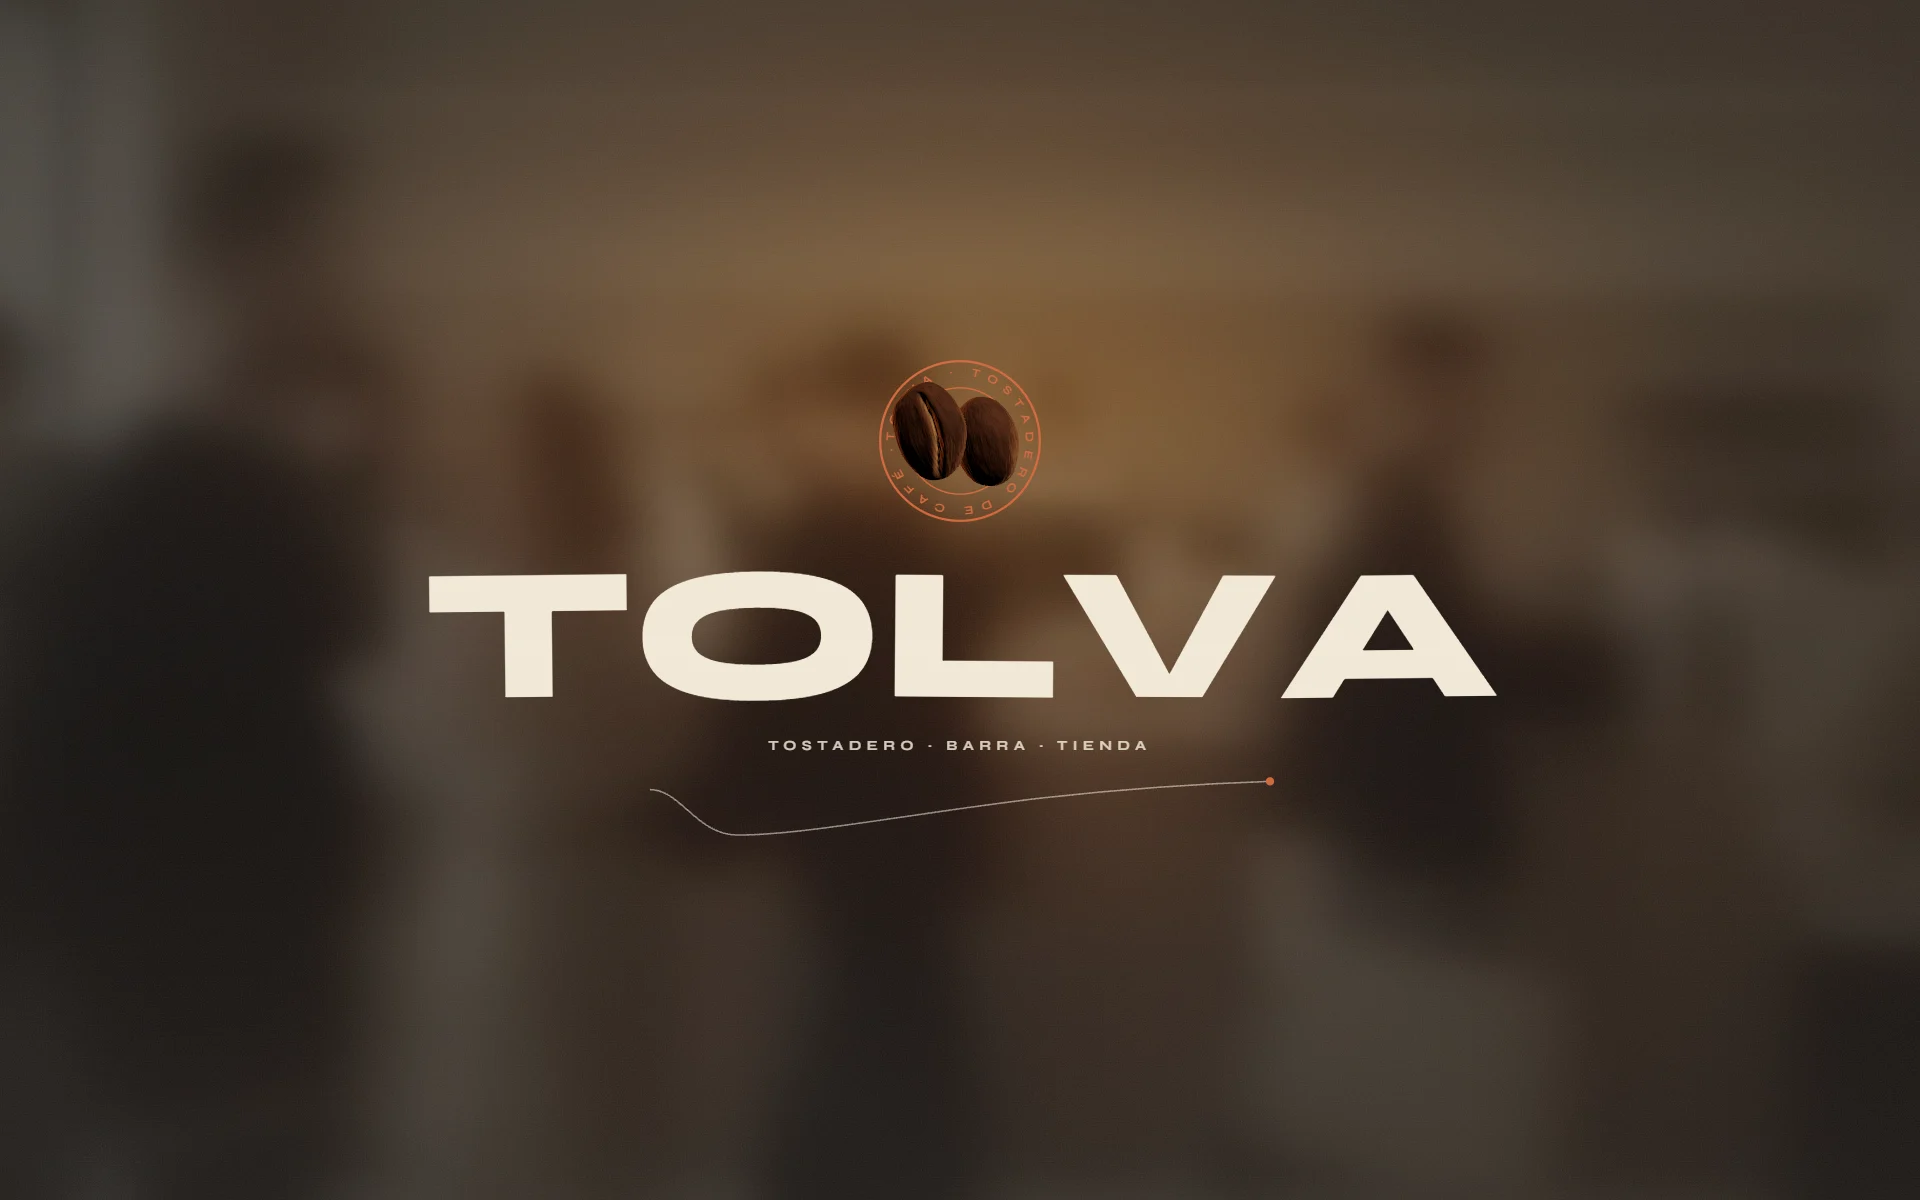
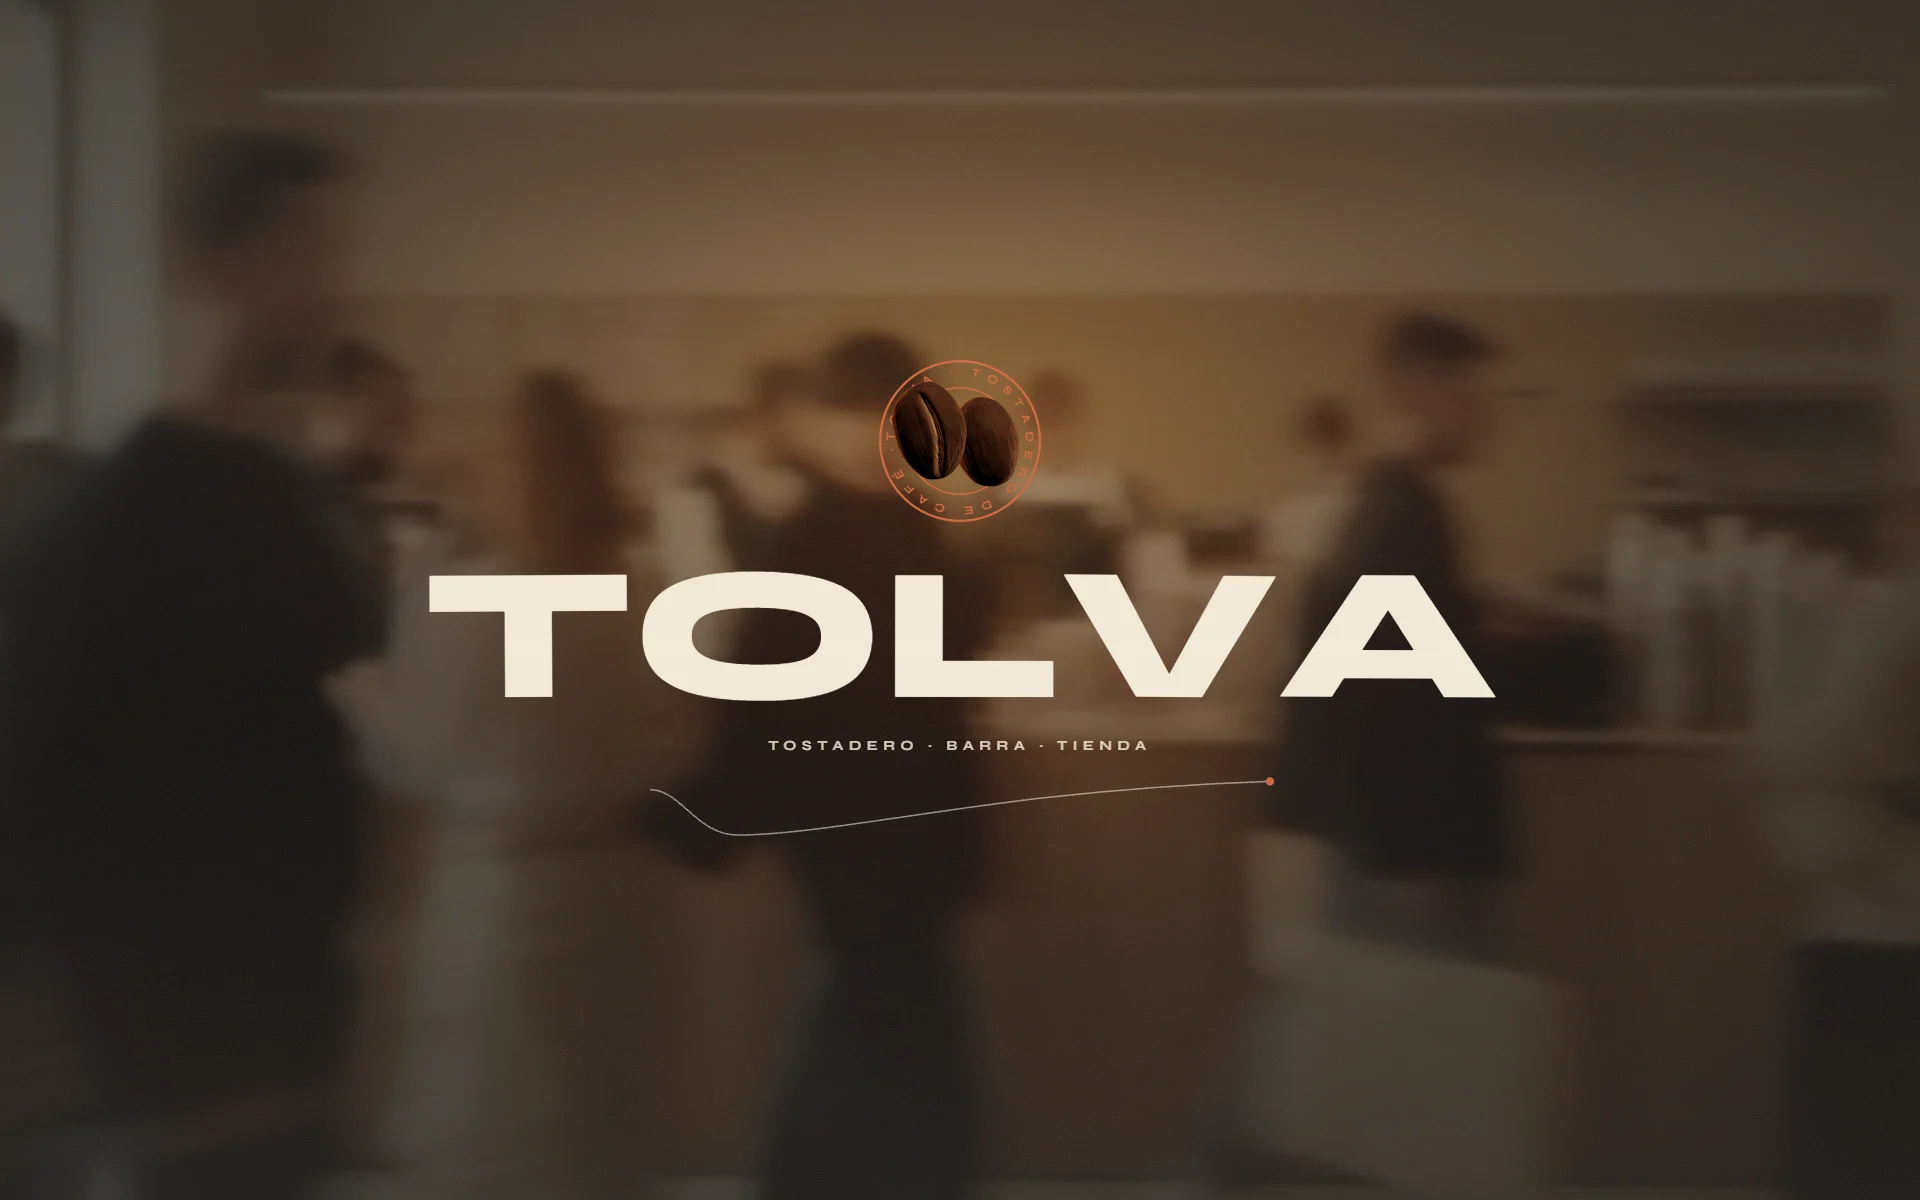
Tolva: lighter blur on the café behind

diff --git a/src/pages/Projects/ProjectsSection.tsx b/src/pages/Projects/ProjectsSection.tsx
@@ -71,7 +71,7 @@ const SCENE: Record<string, string | undefined> = {
   // (v: bumped when the scene changes, so a cached copy is never shown)
   buendia: "/concepts/buendia-devices/index.html?bare&v=3",
   smarthc: "/concepts/smarthc-devices/index.html?bare&room&v=3",
-  tolva: "/concepts/tolva/index.html?v=2",
+  tolva: "/concepts/tolva/index.html?v=3",
 };
 
 // Projects shown as their drawing drawing itself, then the photograph (the case's opening drawing)

diff --git a/public/concepts/tolva/index.html b/public/concepts/tolva/index.html
@@ -28,7 +28,7 @@
   body::before {
     content: ""; position: fixed; inset: -20px;
     background: url(glass.jpg) center / cover no-repeat;
-    filter: blur(6px) saturate(.85);
+    filter: saturate(.9);
   }
   body::after {
     content: ""; position: fixed; inset: 0; pointer-events: none;

diff --git a/src/outils/cases.ts b/src/outils/cases.ts
@@ -298,7 +298,7 @@ export const cases: Case[] = [
     },
     cover: tolvaStill,
     // the mark building itself, live: the beans turning in the seal
-    headerFrame: "/concepts/tolva/index.html?v=2",
+    headerFrame: "/concepts/tolva/index.html?v=3",
     images: [],
   },
   {
